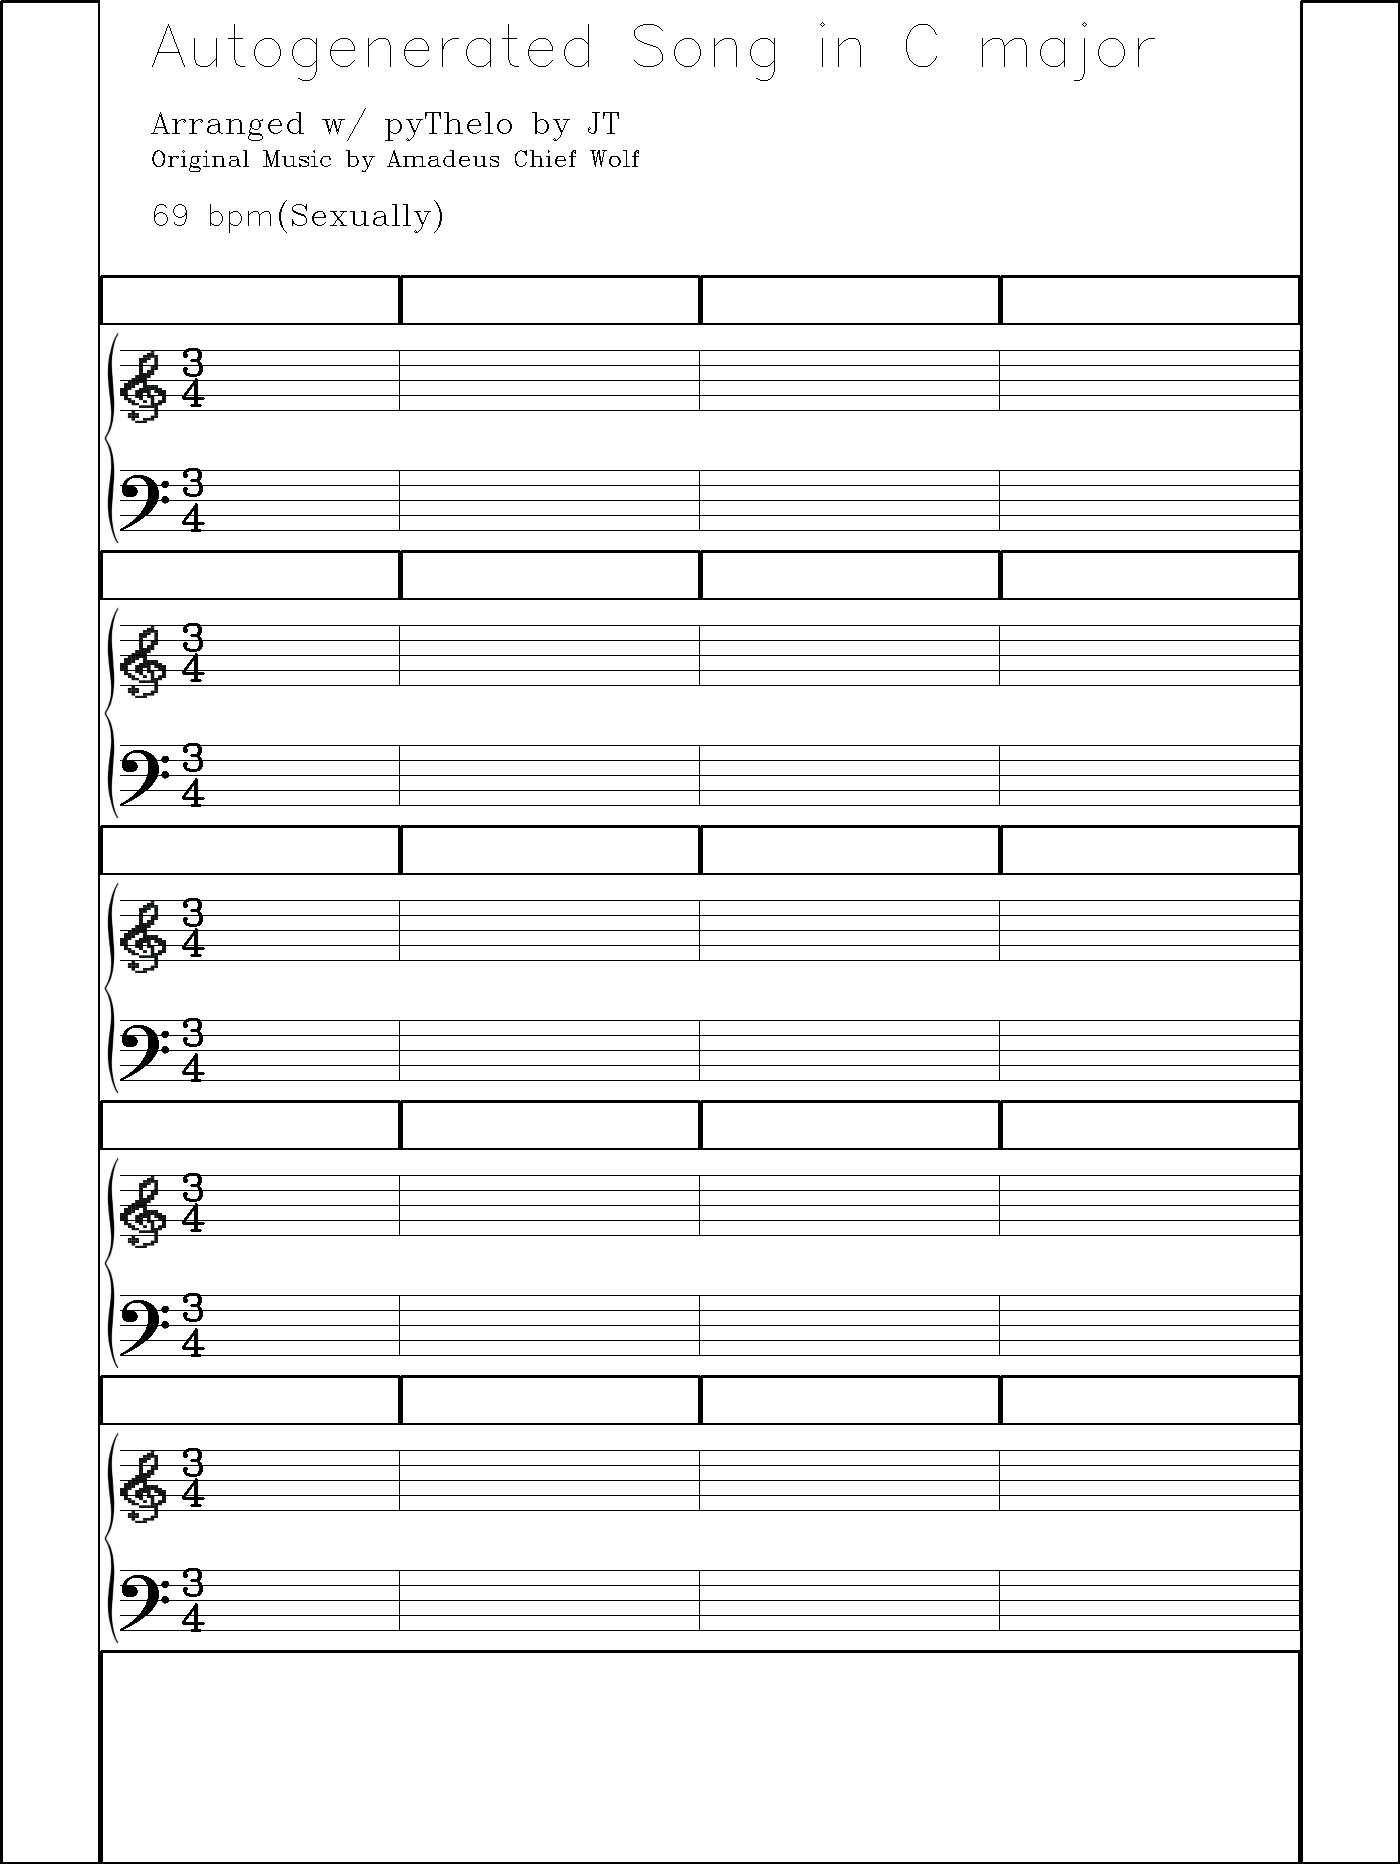
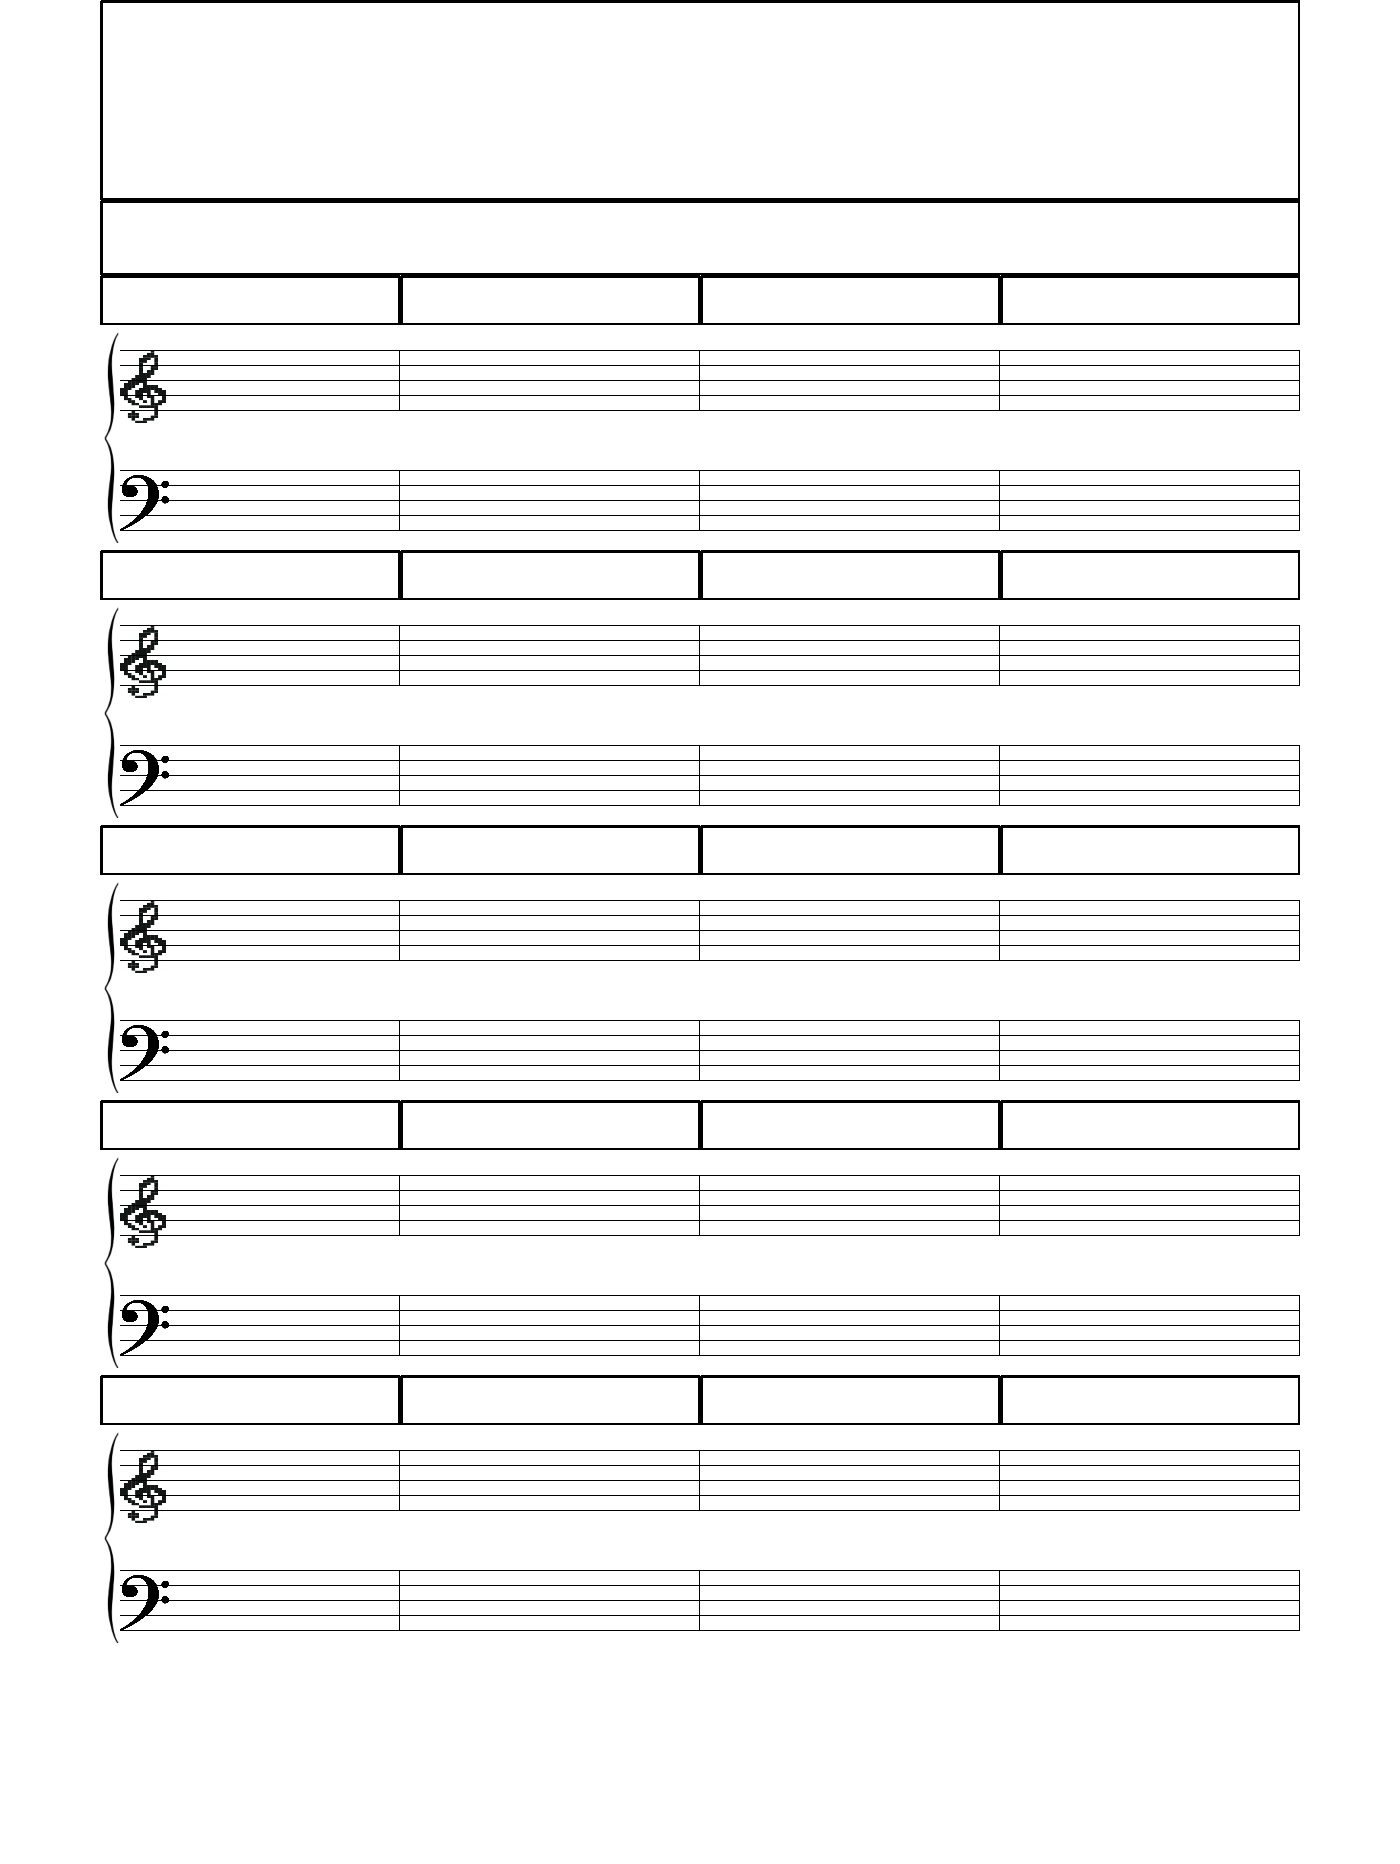
same size measures now

diff --git a/PageBlock.py b/PageBlock.py
@@ -1,6 +1,7 @@
 import numpy as np
 import cv2
 import util
+import copy
 
 #Less Magic Numbers
 BLACK = 0
@@ -81,11 +82,12 @@ class SubBlock(object):
         return a
     
     def add_time_info(self, timesig):
+        HORIZ_SPACE = 116 if len(str(timesig.bpm)) == 2 else 145
         a = np.zeros((self.h, self.w, N_CHAN), dtype=np.uint8)
         a[:] = WHITE
         cv2.putText(a, "%d bpm" % timesig.bpm, (START_X_B, int(self.h/3)),  fontFace=cv2.FONT_HERSHEY_SIMPLEX, fontScale=1, color=BLACK_TRI)
         if timesig.desc is not None:
-            cv2.putText(a, "(%s)" % timesig.desc, (START_X_B + 125, int(self.h/3)), fontFace=cv2.FONT_HERSHEY_COMPLEX, fontScale=1, color=BLACK_TRI)
+            cv2.putText(a, "(%s)" % timesig.desc, (START_X_B + HORIZ_SPACE, int(self.h/3)), fontFace=cv2.FONT_HERSHEY_COMPLEX, fontScale=1, color=BLACK_TRI)
         return a
     
     def return_first_of_line(self):
@@ -128,6 +130,17 @@ class SubBlock(object):
         cv2.line(patch, (299, 25), (299, 85), color=(0, 0, 0), thickness=1)
         cv2.line(patch, (299, 145), (299, 205), color=(0, 0, 0), thickness=1)
         return patch
+    
+    @staticmethod
+    def static_reg():
+        patch = np.zeros((MEASURE_H, MEASURE_W, 3), dtype=np.uint8) - 1
+        #treble/bass maker
+        for i in range(5):
+            cv2.line(patch, (0, 25 + 15*i), (300, 25 + 15*i), color =(0, 0, 0), thickness=1)
+            cv2.line(patch, (0, 145+ 15*i), (300, 145 + 15*i), color =(0, 0, 0), thickness=1)
+        cv2.line(patch, (299, 25), (299, 85), color=(0, 0, 0), thickness=1)
+        cv2.line(patch, (299, 145), (299, 205), color=(0, 0, 0), thickness=1)
+        return patch        
     
     def return_repeat_first_of_line(self):
         patch = np.zeros((MEASURE_H, MEASURE_W, 3), dtype=np.uint8) - 1
@@ -229,11 +242,11 @@ class PageBlock(object):
          
                 measure += 1
                 
-        self.page[0:PAGE_H, 0:MARGIN_L] = self.sub_blocks['L_MARGIN'].return_draw()
-        self.page[0:PAGE_H, MEASURE_4_END: PAGE_W] = self.sub_blocks['R_MARGIN'].return_draw()
+        # self.page[0:PAGE_H, 0:MARGIN_L] = self.sub_blocks['L_MARGIN'].return_draw()
+        # self.page[0:PAGE_H, MEASURE_4_END: PAGE_W] = self.sub_blocks['R_MARGIN'].return_draw()
         self.page[0:TITLE_AUTHOR, MARGIN_L:MEASURE_4_END] = self.sub_blocks['TITLE'].return_draw()
         self.page[TITLE_AUTHOR: TITLE_AUTHOR + 75, MARGIN_L:MEASURE_4_END] = self.sub_blocks['TIME'].return_draw()
-        self.page[LINE_5_END:PAGE_H, MARGIN_L:MEASURE_4_END] = self.sub_blocks['B_MARGIN'].return_draw()
+        # self.page[LINE_5_END:PAGE_H, MARGIN_L:MEASURE_4_END] = self.sub_blocks['B_MARGIN'].return_draw()
         
         cv2.imwrite(filename, self.page)
         
@@ -248,26 +261,56 @@ class PageBlock(object):
         self.page[0:TITLE_AUTHOR, MARGIN_L:MEASURE_4_END] = self.sub_blocks['TITLE'].add_title_info(song_title, song_composer, song_origin)
         self.page[TITLE_AUTHOR: TITLE_AUTHOR + 75, MARGIN_L:MEASURE_4_END] = self.sub_blocks['TIME'].add_time_info(song_time)
         
+        #i is the row we're on
         for i in range(len(Y_LIST) - 1):
             top_boundary = Y_LIST[i]
             bot_boundary = Y_LIST[i + 1]
             if i % 2 == 1:
                 continue # Don't make the breaks
+                
+            #j is the measure in the row
             for j in range(len(X_LIST) - 1):
                 left_boundary = X_LIST[j]
                 right_boundary = X_LIST[j + 1]
+                
+                #only the first measure of the rows neeeds special.
                 if j > 0:
                     continue
+                    
                 accidentals, n_acc = util.generate_accidentals_no_staff([MEASURE_H, MEASURE_W, 3], song_key)
-                timeframe = util.generate_time_signature([MEASURE_H, MEASURE_W, 3], song_time, n_acc)
-
-                self.page[top_boundary:bot_boundary, left_boundary:right_boundary] = cv2.bitwise_and(self.page[top_boundary:bot_boundary,
-                                                                                                               left_boundary:right_boundary],
-                                                                                                     accidentals)
-                self.page[top_boundary:bot_boundary, left_boundary:right_boundary] = cv2.bitwise_and(self.page[top_boundary:bot_boundary,
-                                                                                                               left_boundary:right_boundary],
-                                                                                                     timeframe)
+                timeframe, offset = util.generate_time_signature([MEASURE_H, MEASURE_W, 3], song_time, n_acc)
+                self.page[top_boundary:bot_boundary, left_boundary:right_boundary] = cv2.bitwise_and(self.page[top_boundary:bot_boundary, left_boundary:right_boundary], accidentals)
                 
+                #time signature only goes on the first row
+                if i == 0:
+                    self.page[top_boundary:bot_boundary, left_boundary:right_boundary] = cv2.bitwise_and(self.page[top_boundary:bot_boundary, left_boundary:right_boundary], timeframe)
+                    
+                #on nonfirst rows we need to move and smush our time and key.
+                if j == 0 and i > 0:
+                    # The 25 is for the time signature. It's not there.
+                    signature = copy.deepcopy(self.page[top_boundary:bot_boundary, left_boundary:left_boundary + offset - 25])
+                    new_w = 100
+                    new_h = signature.shape[0]
+                    resize_signature = cv2.resize(signature, (new_w, new_h), interpolation = cv2.INTER_AREA)
+                    
+                    replacement = SubBlock.static_reg()[:,0:offset-25]
+                    self.page[top_boundary:bot_boundary, left_boundary:left_boundary + offset - 25] = replacement
+                    self.page[top_boundary:bot_boundary, 0:100] = resize_signature
+                    cv2.line(self.page, (100, top_boundary + 25), 
+                             (100, top_boundary + 85), color=(0, 0, 0), thickness=1)
+                    cv2.line(self.page, (100, top_boundary + 145), 
+                             (100, top_boundary + 205), color=(0, 0, 0), thickness=1)                    
+                    
+                #first row we just move the full signature to the end
+                if i == 0 and j == 0:
+                    signature = copy.deepcopy(self.page[top_boundary:bot_boundary, left_boundary:left_boundary + offset])
+                    self.page[top_boundary:bot_boundary, left_boundary:right_boundary] = 255 # np.zeros((bot_boundary - top_boundary, right_boundary - left_boundary, 3), dtype=np.uint8)
+                    self.page[top_boundary:bot_boundary, right_boundary - offset: right_boundary] = signature
+                    cv2.line(self.page, (left_boundary + 299, top_boundary + 25), 
+                             (left_boundary + 299, top_boundary + 85), color=(0, 0, 0), thickness=1)
+                    cv2.line(self.page, (left_boundary + 299, top_boundary + 145), 
+                             (left_boundary + 299, top_boundary + 205), color=(0, 0, 0), thickness=1)
+                    
         if write:
             cv2.imwrite('test_out.jpg', self.page)
             

diff --git a/util.py b/util.py
@@ -109,10 +109,12 @@ def generate_accidentals_no_staff(dims, keysig, fsharp_over_gflat=True):
     hour %= 12
 
     if hour < 6 or '#' in key:
-        sharps, flats = min(6, hour), 0
+        #sharps, flats = min(6, hour), 0
+        sharps, flats = hour, 0
         patch = generate_sharps(patch, sharps)
     elif hour > 6 or 'b' in key:
-        sharps, flats = 0, min(12 - hour, 6)
+        #sharps, flats = 0, min(12 - hour, 6)
+        sharps, flats = 0, 12 - hour
         patch = generate_flats(patch, flats)
     else:
         if not fsharp_over_gflat: # This is at the bottom of the enharmonic circle. I like sharps more than flats, this can be changed via arg.
@@ -133,7 +135,5 @@ def generate_time_signature(dims, song_time, n_acc):
     cv2.putText(patch, "%s" % bottom, (TOTAL_OFFSET, 80), fontScale=1.25, fontFace=cv2.FONT_HERSHEY_COMPLEX, color=(0, 0, 0), thickness=2)
     cv2.putText(patch, "%s" % top, (TOTAL_OFFSET, 170), fontScale=1.25, fontFace=cv2.FONT_HERSHEY_COMPLEX, color=(0, 0, 0), thickness=2)
     cv2.putText(patch, "%s" % bottom, (TOTAL_OFFSET, 205), fontScale=1.25, fontFace=cv2.FONT_HERSHEY_COMPLEX, color=(0, 0, 0), thickness=2)
-    return patch
-
-
-    
+    cv2.line(patch, (TOTAL_OFFSET + 25, 0), (TOTAL_OFFSET + 25, 255), thickness=1, color=(0, 0, 255))
+    return patch, TOTAL_OFFSET + 25
